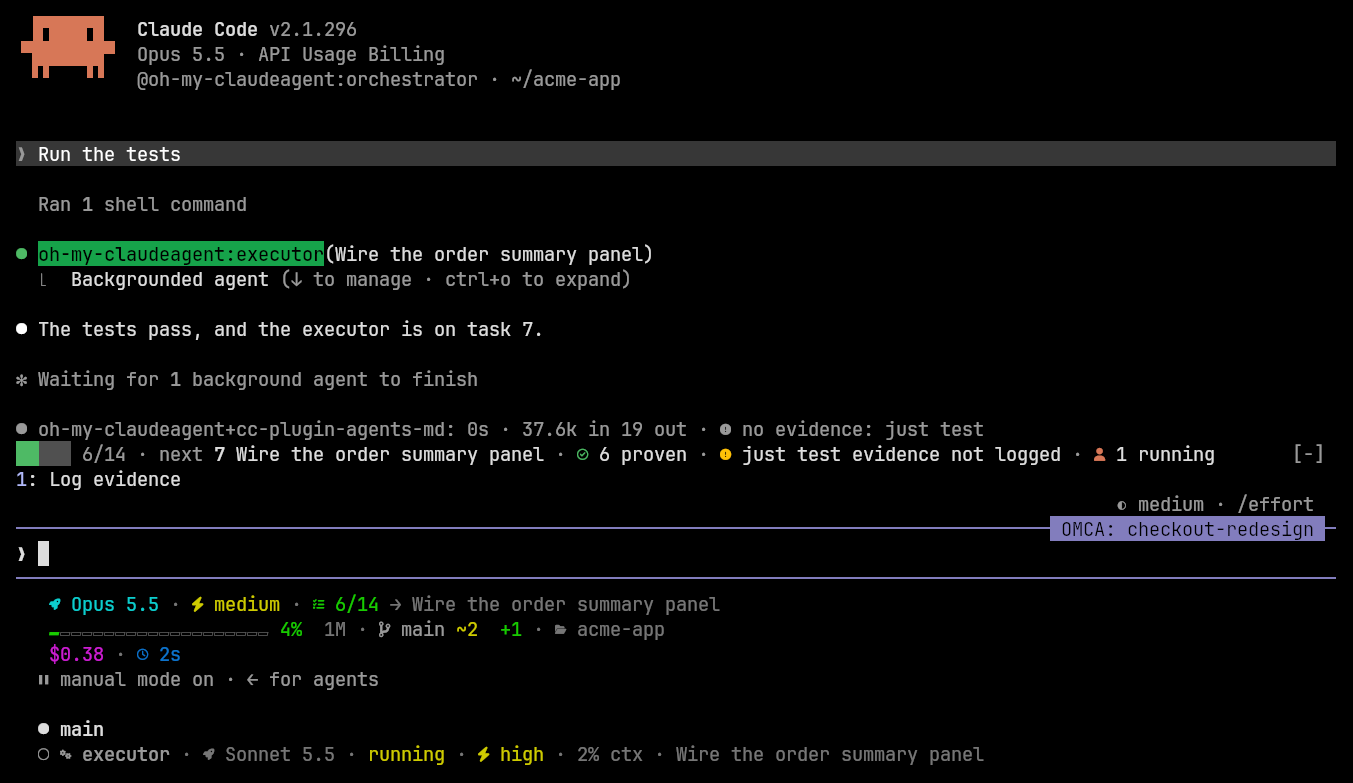
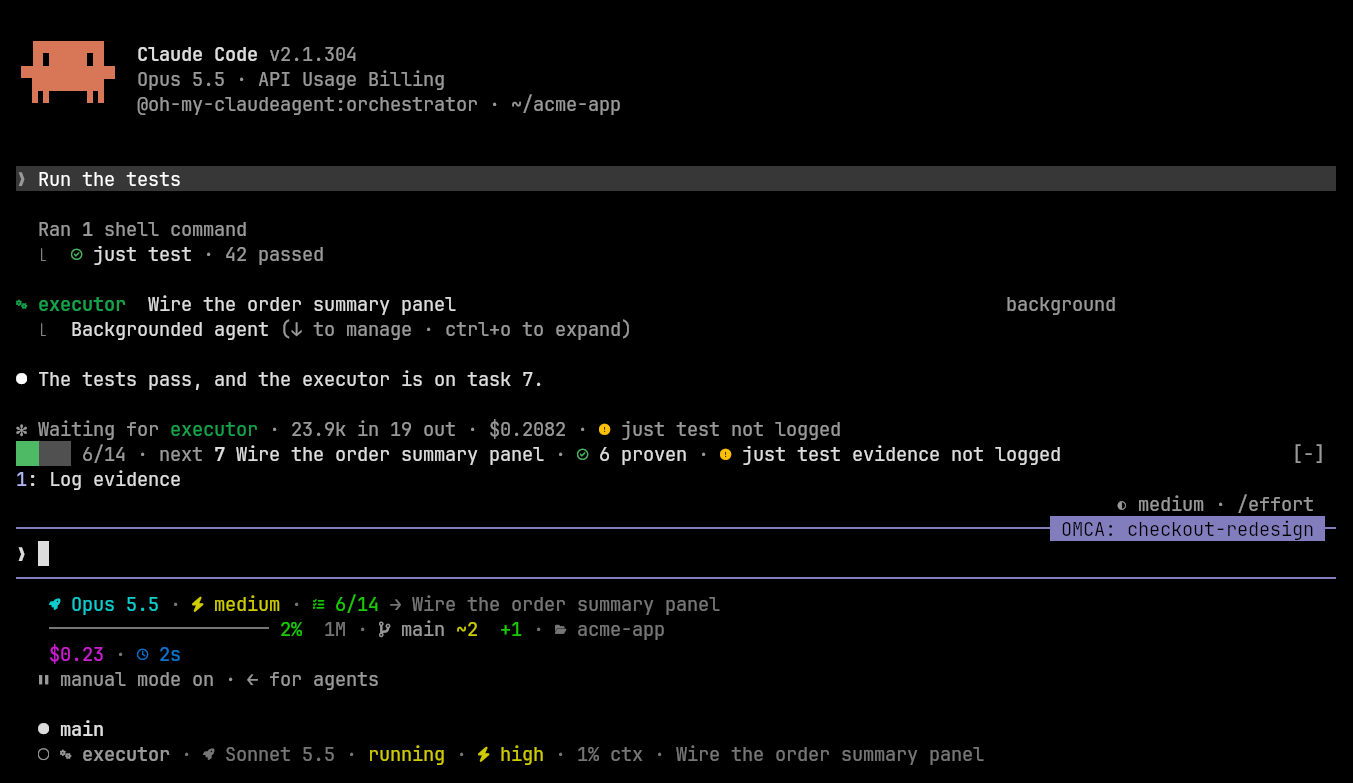
docs: show the transcript rows in the README and guides
The README opens "What you see" on the transcript: a new transcript shot
of receipts, agent rows and turn lines, and recaptured hero, band,
status line and pane tour images without the footer row, the running
count or the pane's auto-open. The usage guide replaces the turn footer
with what OMCA draws in the transcript, the references list the
transcript rows per surface, and the hooks guide describes the footer,
agent-rows and receipts features and how a turn line finds its turn.

diff --git a/scripts/docs/screenshots.ts b/scripts/docs/screenshots.ts
@@ -512,7 +512,43 @@ export const SHOTS: readonly Still[] = [
       main: [{ content: [bash("just test", "Run the tests"), TASK_7] }, { content: [text("The tests pass, and the executor is on task 7.")] }],
       subagent: [{ content: [tool("Read", { file_path: "src/steps/summary.ts" })] }, { content: [WATCH_SUMMARY] }],
     },
-    ready: (screen) => screen.includes("evidence not logged") && screen.includes("1 running"),
+    ready: (screen) => screen.includes("evidence not logged") && screen.includes("just test · 42 passed"),
+  },
+  {
+    name: "transcript",
+    format: "png",
+    cols: 120,
+    rows: 52,
+    command: "Run the tests, then map the validation messages",
+    keys: [],
+    script: {
+      main: [
+        { content: [text("The tests first."), bash("just test", "Run the tests")] },
+        {
+          content: [
+            text("They pass. The explorer and the architect can start."),
+            agent("explorer", "Map the validation messages", "Task 8: list every validation message the forms build today."),
+            agent("architect", "Review the checkout flow", "Review how the draft order and the summary panel share state."),
+          ],
+        },
+        { content: [text("Both agents are on it.")] },
+        { content: [text("The explorer mapped the messages.")] },
+        { content: [text("The architect's review is in.")] },
+      ],
+      subagent: [],
+      agents: {
+        "validation message": [
+          { content: [tool("Grep", { pattern: "error", path: "src/forms" })] },
+          { content: [text("The forms build seven messages: four in src/forms/address.ts and three in src/forms/card.ts.")] },
+        ],
+        "share state": [
+          { content: [tool("Read", { file_path: "src/steps/summary.ts" })] },
+          { content: [text("They share state only through the cart store; keep the draft order out of it.")], delayMs: 2_500 },
+        ],
+      },
+    },
+    ready: (screen) =>
+      screen.includes("just test · 42 passed") && /explorer {2}Map the validation messages/.test(screen) && /architect {2}Review the checkout flow/.test(screen),
   },
   {
     name: "plan",

diff --git a/scripts/docs/screenshots.spec.ts b/scripts/docs/screenshots.spec.ts
@@ -17,7 +17,7 @@ describe("SHOTS", () => {
   });
 
   test("captures every README scene as a still and the two animated scenes as GIFs", () => {
-    expect(SHOTS.filter((shot) => shot.format === "png").map((shot) => shot.name)).toEqual(["hero", "band", "plan", "evidence", "agents", "mascots", "guard", "doctor", "statusline"]);
+    expect(SHOTS.filter((shot) => shot.format === "png").map((shot) => shot.name)).toEqual(["hero", "band", "transcript", "plan", "evidence", "agents", "mascots", "guard", "doctor", "statusline"]);
     expect(SHOTS.filter((shot) => shot.format === "gif").map((shot) => shot.name)).toEqual(["pane-tour", "guard-dialog"]);
   });
 

diff --git a/docs/usage.md b/docs/usage.md
@@ -196,15 +196,41 @@ own after about 54 minutes idle (`idleCompaction`; see `docs/references.md` for 
 Type `@agent-oh-my-claudeagent:<name>` to send a request to one agent, for example
 `@agent-oh-my-claudeagent:architect what is the right shape for this cache?`.
 
-## The band, the pane and the plan board
+## The transcript, the band and the pane
+
+### In the transcript
+
+On a terminal OMCA redraws Claude Code's own transcript rows, so what it tracks shows up where
+the work happens:
+
+- **The turn line.** The dim line that closes each main turn (`✻ Cooked for 21s`) also carries the
+  turn's input and output tokens, its cost on an account billed by the token, and a receipt for a
+  verification command the turn ran: `✓ just test logged`, or `! just test not logged` when no
+  evidence was logged after it. While background agents are still working it names them in
+  their colors, as in `Waiting for executor, architect`. As the window narrows the line drops the
+  clock, then the cost, then the tokens; the receipt stays.
+- **An agent's launch.** The row of a single Agent call shows the agent's icon and name in its
+  color and its task, with `background` flush right when it runs on its own, in place of
+  `oh-my-claudeagent:executor(…)`. Several agents launched together keep Claude Code's own block.
+- **A finished agent.** Claude Code's `Agent "…" finished` row becomes the agent's status mark,
+  its name in its color and its task, with its duration, tool calls and tokens flush right, and
+  the first line of its reply beneath. A failed or stopped agent says so in the theme's error or warning color. Press
+  `ctrl+o` for Claude Code's full notification.
+- **A verification run.** Under a folded group of shell commands, each test, build or lint run
+  gets one row with its result: `✓ just test · 12 pass, 0 fail`, or `✗ just lint · exit 1 · 1
+  problem (1 error)`, read from the command's own output. The runners are the ones the
+  verification gate records.
+
+Running agents are listed by Claude Code itself, under the prompt. A session without a terminal
+gets the turn's figures as one text row beneath the answer instead.
 
 ### The band
 
 The band sits above the prompt. It shows the bound plan's progress as a bar with its done and
 total tasks, the next open task, how many tasks are proven, unproven and failed (see
-[proof](#proof)), a verification command whose evidence was not logged, and how many agents are
-running. As the window narrows it drops the verification first, then the proof counts, the next
-task and the running count; the bar stays. The prompt's border names the plan.
+[proof](#proof)), and a verification command whose evidence was not logged. As the window narrows
+it drops the proof counts first, then the next task, then the verification; the bar stays. With
+no plan bound and no step to offer, it draws nothing. The prompt's border names the plan.
 
 Below it, numbered buttons offer the next step: log the evidence, start work, run the final
 verification, or review the changes with architect. Press a button's digit in an empty prompt, or
@@ -214,13 +240,6 @@ buttons are held while an agent's transcript is in the main view and return with
 conversation.
 
 Set the `showBand` option to `false` to hide it.
-
-### The turn footer
-
-After each main-session turn, OMCA prints one line with the turn's duration and its input and
-output tokens. An account billed by the token also sees the turn's cost. When a verification
-command ran during the turn and no evidence was logged after it, a warning naming the command
-takes the cost's place.
 
 ### The pane
 
@@ -274,14 +293,10 @@ of content with a cue above or below it, and the keys; spare rows go to wrapped 
 key row. When the tab labels do not fit on one row, the tabs other than the shown one show their
 initial. A wide terminal gives the docked pane up to 120 columns while the transcript keeps 100.
 
-The pane opens by itself on a session's first wave of subagents, and not again once you close it
-or in a session without a terminal. Below 144 columns the pane waits undrawn, and below 110 once
-you have opened it yourself, until the window is wide enough.
+The pane opens only when you ask for it; the transcript reports each agent as it finishes.
 
-A toast appears when a wave of subagents finishes (one per wave, not one per agent), when a
-verification fails, and when the plan completes. With no plan bound, the band still shows the
-running agents. While a turn runs, the spinner's line ends with the plan's position and the agent
-count, as in `… · task 7/14 · 3 agents`.
+A toast appears when a verification fails and when the plan completes. While a turn runs, the
+spinner's line ends with the plan's position, as in `… · task 7/14`.
 
 #### Mascots
 
@@ -297,7 +312,7 @@ under the name `fork`, with a fork icon in place of the agent's own. A fork of t
 conversation wears the main agent's, which is the orchestrator unless your `agent` setting names
 another; with no main agent set, a fork draws no mascot.
 
-The band and the pane draw every color from your Claude Code theme, so a custom theme in
+The transcript rows, the band and the pane draw every color from your Claude Code theme, so a custom theme in
 `~/.claude/themes/` applies to them too. Each state also carries a glyph, and a word where the
 row has room for it beside the agent's name, so nothing depends on color alone. Secrets in
 commands, output and notes, such as API keys, tokens, `password=` values and the password in a
@@ -508,7 +523,7 @@ and the Doctor tab reports bun as missing. Make bun reachable from the app's `PA
 by linking it into a directory the app searches, and restart the app.
 
 The Code tab in Desktop runs its own bundled copy of Claude Code. OMCA's mod
-(the guard, band, pane, toasts and guard dialog) runs there only when that copy is 2.1.300 or
+(the guard, transcript rows, band, pane, toasts and guard dialog) runs there only when that copy is 2.1.300 or
 later; `/status` in a Code-tab session shows its version. On an older copy the agents, skills,
 MCP tools and stop gates still work and the mod does not load. Desktop for Linux is a beta for
 Debian and Ubuntu that updates through the package manager, so a newer bundled copy arrives with
@@ -536,6 +551,8 @@ On Desktop the mod draws differently:
 - `f` opens a Find field, but Desktop keeps the keyboard on the pane's buttons, so click the field
   before typing.
 - Copy can report that the surface has no clipboard, and the spinner keeps Desktop's own text.
+- The transcript keeps Desktop's own rows: Desktop draws its own turn footer, so the turn's
+  figures and receipt arrive as a text row beneath the answer.
 
 The VS Code chat panel runs OMCA's hooks but draws none of its interface: no band, no pane and
 no guard dialog ([anthropics/claude-code#99045](https://github.com/anthropics/claude-code/issues/99045)).

diff --git a/README.md b/README.md
@@ -62,11 +62,18 @@ verification logged, OMCA sends it back to work with the reason.
 
 ## What you see
 
-The band above the prompt shows the bound plan's progress, the next open task, how many tasks are
-proven, unproven and failed, a verification whose evidence was not logged, and how many agents
-are running. The numbered buttons fill the prompt with the next step.
+OMCA shows its work in Claude Code's own transcript. The line that closes each turn carries its
+tokens, its cost and a receipt for the verification it ran. An agent starts and finishes in its
+own color, the finish with its duration, tool calls, tokens and the first line of its reply. A test, build
+or lint run gets its result under the shell commands that ran it.
 
-<img src=".github/assets/band.png" width="680" alt="The band above the prompt reads 6/14, next 7 Wire the order summary panel, 6 proven, warns that the evidence for just test was not logged, and counts 1 running agent, with the button 1: Log evidence below it.">
+<img src=".github/assets/transcript.png" width="900" alt="A Claude Code turn on the checkout project: under Ran 1 shell command, a receipt reads just test, 42 passed. Two background agents start, and each reports as it finishes: the explorer on Map the validation messages and the architect on Review the checkout flow, each with its duration, tool calls and tokens flush right and the first line of its reply beneath. The dim line that closes each turn names the agents still running, then the turn's tokens and cost.">
+
+The band above the prompt shows the bound plan's progress, the next open task, how many tasks are
+proven, unproven and failed, and a verification whose evidence was not logged. The numbered
+buttons fill the prompt with the next step.
+
+<img src=".github/assets/band.png" width="680" alt="The band above the prompt reads 6/14, next 7 Wire the order summary panel, 6 proven, and warns that the evidence for just test was not logged, with the button 1: Log evidence below it. Above it, the receipt under the shell command reads just test, 42 passed, and the turn line ends with just test not logged.">
 
 `/omca plan` opens the plan board: the tasks grouped by milestone, each with its state, its proof
 and the agent working on it. A wide pane shows the focused task's detail beside the list.
@@ -85,7 +92,7 @@ earlier ones shrink to a line, and in a short pane each lane keeps to two rows.
 <img src=".github/assets/agents.png" width="680" alt="The Agents tab shows two running executors, each led by its mascot in a hard hat with a hammer: one on Wire the order summary panel and one on Persist the draft order, each beside its watch command, its count of tool calls, and its model, effort and tokens, with a blank row between them. Under a Finished label, an explorer from an earlier wave is one line with its task and the first line of its result.">
 
 When the pane has room, each lane gets four rows of its own. The agent page opens a subagent's brief, tool calls, reply and cost, and toasts report
-finished waves, failed verifications and a completed plan.
+failed verifications and a completed plan.
 
 <img src=".github/assets/mascots.png" width="680" alt="The Agents tab with three agents running at once, each lane led by its pixel mascot: a green executor in a yellow hard hat with a hammer, a blue explorer in a safari hat with a spyglass, and a purple architect with a lit bulb beside its head. Beside each mascot, four rows give the agent's name with its running time, its task, its running Bash sleep with one call, and its model, effort and tokens, with a blank row between agents.">
 
@@ -104,12 +111,12 @@ The status line shows the session (model, agent and the plan's next task), the w
 by the token) on rows of their own, and fits itself to the terminal's width. The subagent status
 line gives each running agent a row.
 
-<img src=".github/assets/statusline.png" width="900" alt="The OMCA status line under the prompt shows three rows: the model, effort and plan progress with the next task; a context bar, the git branch with change counts and the project; and the session cost and duration. Below it, one row for each of two running subagents shows its type, model, state, effort, context and task. Above, the OMCA pane has opened by itself on the two executors' lanes.">
+<img src=".github/assets/statusline.png" width="900" alt="The OMCA status line under the prompt shows three rows: the model, effort and plan progress with the next task; a context bar, the git branch with change counts and the project; and the session cost and duration. Below it, one row for each of two running subagents shows its type, model, state, effort, context and task. Above, the turn line waits on the two executors.">
 
 In motion: `/omca plan` opens the board, Down moves the focus, Enter opens the task as a page,
 and the number keys switch between the pane's tabs.
 
-<img src=".github/assets/pane-tour.gif" width="900" alt="An animation: a prompt hands task 7 to the executor and the OMCA pane opens by itself beside the session, its Agents tab showing the executor's lane led by its mascot, then /omca plan switches the pane to the board with task 7 expanded, Down moves to task 8 and Enter opens it as a page, 1 switches to the Agents tab with the executor's lane, 3 to the Evidence tab, and 2 returns to task 8 on the Plan tab.">
+<img src=".github/assets/pane-tour.gif" width="900" alt="An animation: a prompt hands task 7 to the executor, then /omca plan opens the OMCA pane beside the session on the board with task 7 expanded, Down moves to task 8 and Enter opens it as a page, 1 switches to the Agents tab with the executor's lane led by its mascot, 3 to the Evidence tab, and 2 returns to task 8 on the Plan tab.">
 
 The guard dialog arrives the moment the model asks for a destructive command.
 

diff --git a/docs/references.md b/docs/references.md
@@ -148,11 +148,11 @@ server's `omca_hook` tool, which dispatches through `servers/hooks/registry.ts`.
 | --- | --- |
 | `tool.check` for Bash and PowerShell | The destructive-command guard and its review dialog |
 | `session.start` | Registers `/omca`, writes the session's mod marker, draws the band's first state, and writes a transcript line when the `omca` server is not connected, naming a missing bun or the server's error |
-| `turn.start`, `turn.complete` | The turn footer (time, tokens, cost, an unlogged verification), the band and its buttons, the pane's refresh |
+| `turn.start`, `turn.complete` | The turn's tokens, cost and verification receipt for its closing line, a finished agent's notice, the band and its buttons, the pane's refresh |
 | `agent.spawn`, `turn.step` | The Agents tab and delegation records |
 | `tool.call` | A subagent's tool calls, kept for its page on the Agents tab; only a subagent's call reaches the mod, and a main-loop call skips it |
 | `session.compact` | Asks the summarizer to keep the bound plan and its next ten open tasks. It does not run for a user-installed plugin where an organization manages Claude Code; the server's `SessionStart` `compact` handler re-injects the plan context there |
-| `ui.render`, `ui.focus`, `ui.scroll`, `ui.close`, `prompt.edit`, `prompt.change`, `command.run` | The band, the pane and the commands |
+| `ui.render`, `ui.focus`, `ui.scroll`, `ui.close`, `prompt.edit`, `prompt.change`, `command.run` | The turn line, an agent's launch and finish rows and the receipts under shell commands in the transcript, the band, the pane and the commands |
 
 `tool.check` runs before every Bash and PowerShell call in every permission mode and never
 returns an allow, which would skip the auto-mode classifier.
@@ -199,7 +199,7 @@ session. `all` or `*` turns off every one. Set it in the environment Claude Code
 | `stop-gates` | Every stop gate |
 | `plan-continuation`, `final-verification`, `drift-guard` | One stop gate |
 | `task-completed` | The task completion check |
-| `verification-recorder` | Recording verification commands, which the band, footer and task check read |
+| `verification-recorder` | Recording verification commands, which the band, the turn line and the task check read |
 | `context-injector` | `AGENTS.md`, `README.md` and rule injection when a file is read or edited |
 | `comment-gate` | The comment check on writes |
 | `plan-write-guard`, `plan-format-warn` | The plan checkbox refusal and warning |
@@ -217,7 +217,7 @@ session. `all` or `*` turns off every one. Set it in the environment Claude Code
 | Variable | Effect |
 | --- | --- |
 | `OMCA_COMMENT_GATE` | `advise` (default) lets a write through with a note; `deny` blocks it; `off` skips the check |
-| `OMCA_GLYPHS` | The glyph set of the pane, band, footer, dialog and status line: `nerd` (default, Nerd Font icons; the status line's cache icon and rings need Nerd Fonts v3), `unicode` (no Nerd Font needed) or `ascii` (plain text) |
+| `OMCA_GLYPHS` | The glyph set of the pane, band, transcript rows, dialog and status line: `nerd` (default, Nerd Font icons; the status line's cache icon and rings need Nerd Fonts v3), `unicode` (no Nerd Font needed) or `ascii` (plain text) |
 | `CLAUDE_CODE_EFFORT_LEVEL` | Read by the doctor. A level other than `auto` runs every agent at it, whatever the agent declares, and the doctor warns |
 | `CLAUDE_AFK_TIMEOUT_MS` | Read by the doctor. A whole number of milliseconds after which an unanswered question continues on its own, so a plan interview can settle on its defaults; it outranks `askUserQuestionTimeout`. Claude Code ignores it in project and local settings, and so does the doctor |
 | `OMCA_NATIVE_AGENTS_MD` | `1` stops the context injector from adding `AGENTS.md` where Claude Code already loads it natively and no project `CLAUDE.md` is on the path |
@@ -314,6 +314,7 @@ ledger, notepads and the registry, and links the JSON Schemas for the ledger and
 | Guard decisions | Yes | When the app's Claude Code is 2.1.300 or later | Yes | Yes | Unless `allowManagedModsOnly`, `allowManagedHooksOnly` or `disableAllHooks` |
 | Guard review dialog | Yes | As guard decisions | No: held commands are decided without you | No: decided as in `-p` | As the guard |
 | Band, pane, plan reader, doctor | Yes | As guard decisions, with [Desktop's differences](usage.md#desktop-and-vs-code) | No | No ([anthropics/claude-code#99045](https://github.com/anthropics/claude-code/issues/99045)) | As the guard |
+| Turn line, agent rows and receipts in the transcript | Yes | No: Desktop keeps its own rows, and the turn's figures and receipt arrive as a text row beneath the answer | No | No | As the guard |
 | Status line | Yes | Not documented | No | Not documented | Unless `allowManagedHooksOnly` or `disableAllHooks` |
 
 Where the built-in `sec-default` guard loads (a machine whose managed settings set at least one

diff --git a/hooks/AGENTS.md b/hooks/AGENTS.md
@@ -17,13 +17,36 @@ event is unregistered on purpose; `docs/references.md` carries the per-event rea
 `dispatch.ts`, which runs the features that share the event in a fixed order, each in its own
 try/catch. `host.ts` defines the `Host` closures a feature receives in place of `$`, so a
 feature module takes `host` and never `$`. The features are `bash-guard`, `server-check`,
-`mod-marker`, `compact`, `agents-tracker`, `metrics`, `band`, `pane` with its `tabs/`,
-`footer`, `spinner`, `completion` and `omca-router`. `doctor.ts` runs the Doctor tab's checks and fixes for
+`mod-marker`, `compact`, `agents-tracker`, `agent-rows`, `metrics`, `band`, `pane` with its `tabs/`,
+`footer`, `receipts`, `spinner`, `completion` and `omca-router`. `doctor.ts` runs the Doctor tab's checks and fixes for
 `tabs/doctor.ts`; it registers no event. Pure logic lives in `src/core/`.
 
-`spinner` rewrites only the `suffix` of the terminal's main-loop Spinner, to `… · task 7/14 · 3 agents`,
-from the band and agents atoms. A Spinner whose `requestId` is a tracked agent id, and every desktop
-Spinner, pass through unchanged.
+`spinner` rewrites only the `suffix` of the terminal's main-loop Spinner, to `… · task 7/14`, from
+the band atom. A Spinner whose `requestId` is a tracked agent id, and every desktop Spinner, pass
+through unchanged.
+
+Three features redraw Claude Code's own transcript rows on the terminal, and every other surface
+keeps the engine's rows. None of them reads a file during a drawing, and the row hooks read only
+atoms written once per turn or per finished agent, since a row subscribes to every atom it reads.
+
+- `footer` keeps each main turn's tokens, cost, verification receipt and the agents still running
+  in the `turns` atom at `turn.complete`, and draws them in the `TurnDuration` line. A line belongs
+  to the main turn that started last before the line was first drawn (`turn.start` times, kept in
+  the module), so a turn that ends before the previous turn's facts land still draws its own; a
+  line first drawn before any start, as after /resume, and a line whose turn has no record yet keep
+  the engine's.
+  A client whose props carry `isExpanded` names the waited-on agents in `waitingFor`; an older one
+  keeps its own waiting line, with the facts on a row beneath. A session without a terminal gets
+  the facts as the `turn.complete` text instead.
+- `agent-rows` redraws the `ToolUse` row of a single Agent call from its own input (registered
+  with `props: { tool: "Agent" }`, so no other tool row reaches the mod); several agents
+  launched together are one engine block no hook reaches. It also keeps a finished subagent's
+  type, task, status, duration, call count, tokens and the first line of its reply in the
+  `notices` atom at the agent's `turn.complete`, after `agents-tracker` has closed its row, and
+  redraws the `UserMessage` row of origin `task-notification` whose `task.id` it holds.
+  `isExpanded` (ctrl+o) keeps the engine's rows.
+- `receipts` appends one row per verification call (`isVerificationCommand`) under a folded
+  `ToolGroup`, read from the call's own output, and leaves an expanded group as drawn.
 
 `agents-tracker` also owns the agent page that `tabs/agent-page.ts` draws on the Agents tab: a
 Button keyed `open-<agent id>` on each lane opens it, and `b`, `c`, `r` and `v` go back, copy the

diff --git a/CHANGELOG.md b/CHANGELOG.md
@@ -5,6 +5,33 @@ All notable changes to this project will be documented in this file.
 The format is based on [Keep a Changelog](https://keepachangelog.com/en/1.1.0/),
 and this project adheres to [Semantic Versioning](https://semver.org/spec/v2.0.0.html).
 
+## [Unreleased]
+
+### Added
+
+- **Receipts in the transcript:** on a terminal the line that closes each turn carries its
+  tokens, its cost and a receipt for the verification it ran (`✓ just test logged` or
+  `! just test not logged`), and names the background agents it still waits on in their colors.
+  The separate turn footer row, with its plugin-name prefix, is gone; a session without a
+  terminal keeps it as text.
+- **Agents in their own colors:** a single Agent call's row shows the agent's icon, name and
+  task in its color, with `background` when it runs on its own, in place of
+  `oh-my-claudeagent:executor(…)`. Claude Code's `Agent "…" finished` row shows the agent's
+  status mark, name and task, its duration, tool calls and tokens, and the first line of its
+  reply. ctrl+o shows Claude Code's full rows.
+- **Verification results under shell commands:** a folded group of shell commands gets one row
+  per test, build or lint run with its result, such as `✗ just lint · exit 1 · 1 problem (1
+  error)`, read from the run's own output.
+
+### Changed
+
+- **The pane opens only on `/omca`:** it no longer opens by itself on the first wave of
+  subagents, and the toast that reported each finished wave is gone, since the transcript
+  reports every agent as it finishes.
+- **Less repeated state:** the band no longer counts running agents or says `no plan bound`,
+  and the spinner's suffix names only the plan's next task; Claude Code lists running agents
+  under the prompt.
+
 ## [3.2.0] - 2026-10-17
 
 ### Added
